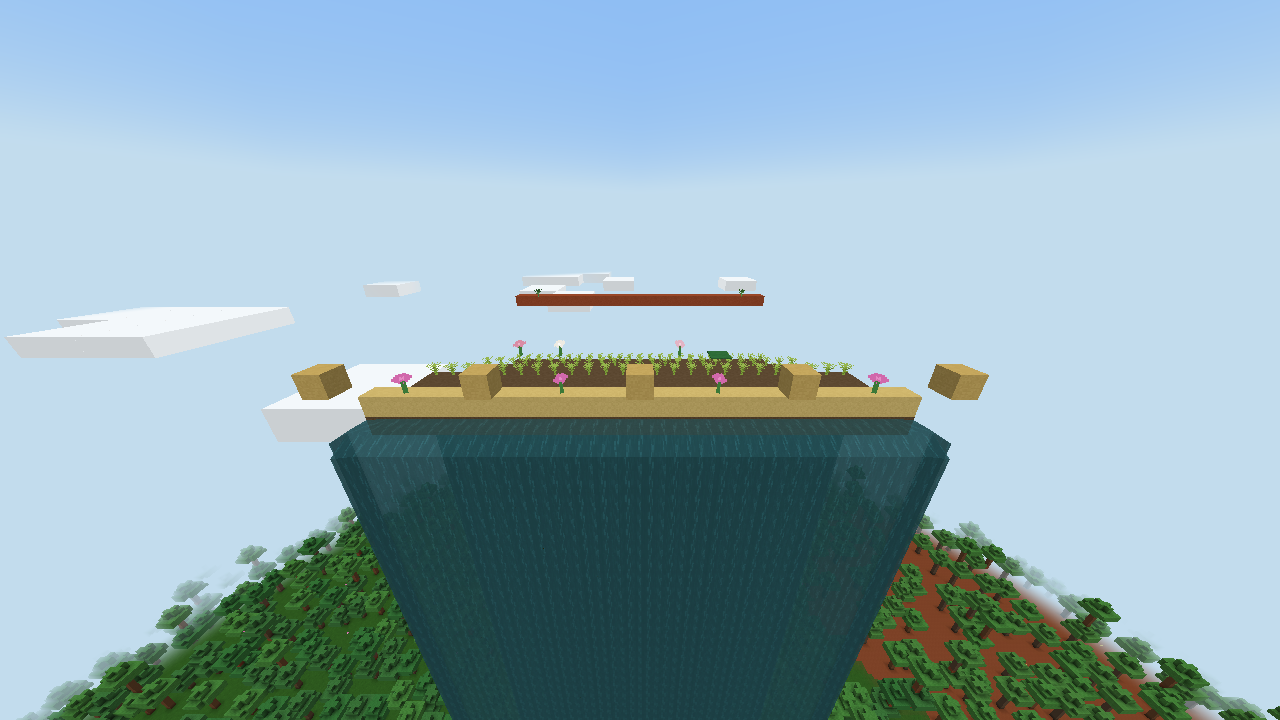
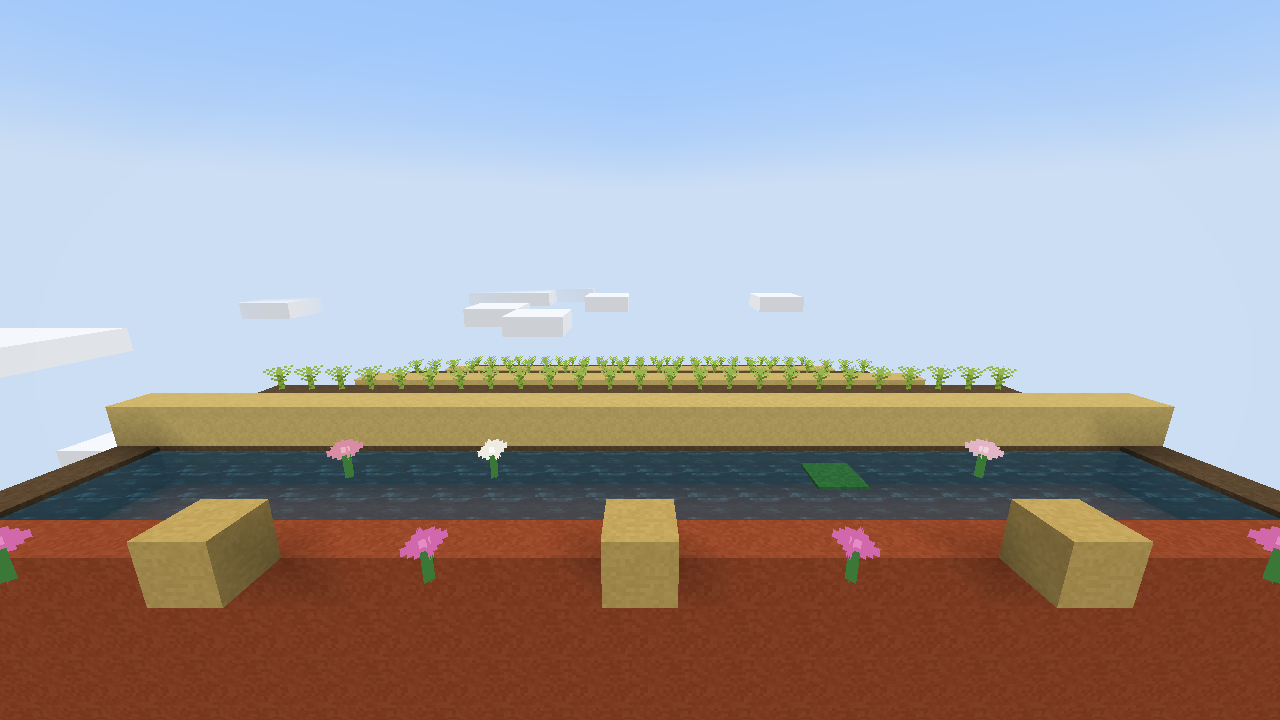
ci(captures): finitions de cadrage (lanterne hors champ, atelier eclaire, rizieres en plongee)

diff --git a/tools/dev/captures/captures.py b/tools/dev/captures/captures.py
@@ -76,7 +76,9 @@ def scene_portail():
         c += [bloc(dx, Y + 1, dz, "lotus_rose" if (dx + dz) % 2 == 0 else "lotus_blanc")]
     for dx in range(-7, 8, 2):
         c += [bloc(dx, Y + 1, 7, "fleur_d_hibiscus")]
-    c += [bloc(0, Y + 5, -6, "lanterne_de_bambou"), bloc(0, Y + 5, 6, "lanterne_de_bambou")]
+    # Lanternes en fond de scene uniquement : placees cote camera (z positif), elles
+    # se retrouvaient au premier plan face a l'objectif.
+    c += [bloc(-3, Y + 5, -6, "lanterne_de_bambou"), bloc(3, Y + 5, -6, "lanterne_de_bambou")]
     c += [bloc(-6, Y + 1, -6, "teleporteur_de_lotus"), bloc(6, Y + 1, 6, "autel")]
     return c
 
@@ -133,8 +135,13 @@ def scene_interieur():
           bloc(-5, Y + 1, 5, "jarre"), bloc(-4, Y + 1, 5, "panier"),
           bloc(5, Y + 1, 5, "marmite"), bloc(5, Y + 1, 3, "encens"),
           bloc(0, Y + 1, 6, "tapis_de_soie_krama"), bloc(2, Y + 1, 6, "natte_de_jonc")]
-    for x in (-6, 0, 6):
-        c += [bloc(x, Y + 4, 7, "lanterne_de_bambou")]
+    # Eclairage : les lanternes sont au plafond, devant la camera, pour eclairer
+    # les etablis (sans elles, l'interieur est tres sombre).
+    for x in (-4, 0, 4):
+        c += [bloc(x, Y + 5, -3, "lanterne_de_bambou"), bloc(x, Y + 5, 3, "lanterne_de_bambou")]
+    # Deux etablis supplementaires pour remplir le champ.
+    c += [bloc(-2, Y + 1, 0, "marmite"), bloc(2, Y + 1, 0, "jarre"),
+          bloc(0, Y + 1, -2, "panier")]
     return c
 
 
@@ -176,8 +183,8 @@ SCENES = {
     "cite": (scene_cite, (0.5, Y + 6.0, 20.0), (180.0, 10.0), "cite-khmere"),
     # Camera a l'interieur de l'atelier (murs en z=+-8) : on cadre les etablis,
     # et non la facade depuis l'exterieur.
-    "interieur": (scene_interieur, (0.5, Y + 3.5, 6.0), (180.0, 8.0), "atelier"),
-    "vegetation": (scene_vegetation, (0.5, Y + 8.0, 24.0), (180.0, 14.0), "rizieres"),
+    "interieur": (scene_interieur, (0.5, Y + 3.0, 4.5), (180.0, 10.0), "atelier"),
+    "vegetation": (scene_vegetation, (0.5, Y + 12.0, 22.0), (180.0, 26.0), "rizieres"),
 }
 
 
